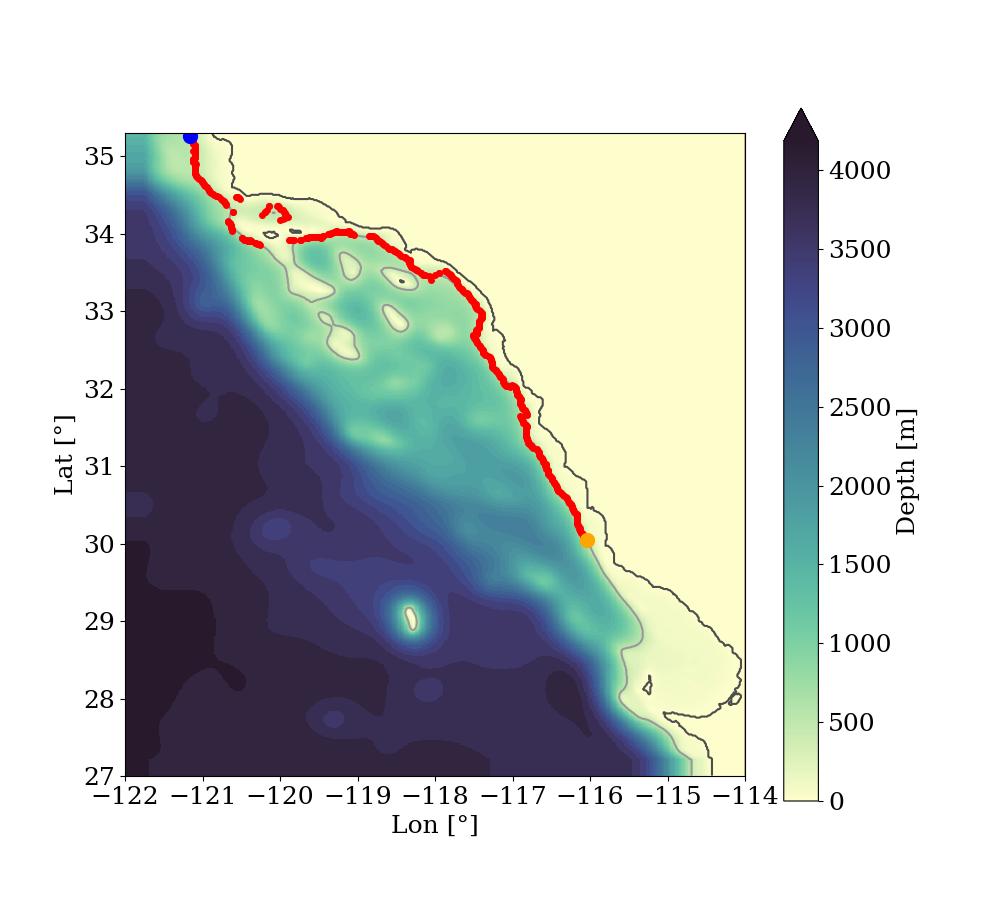
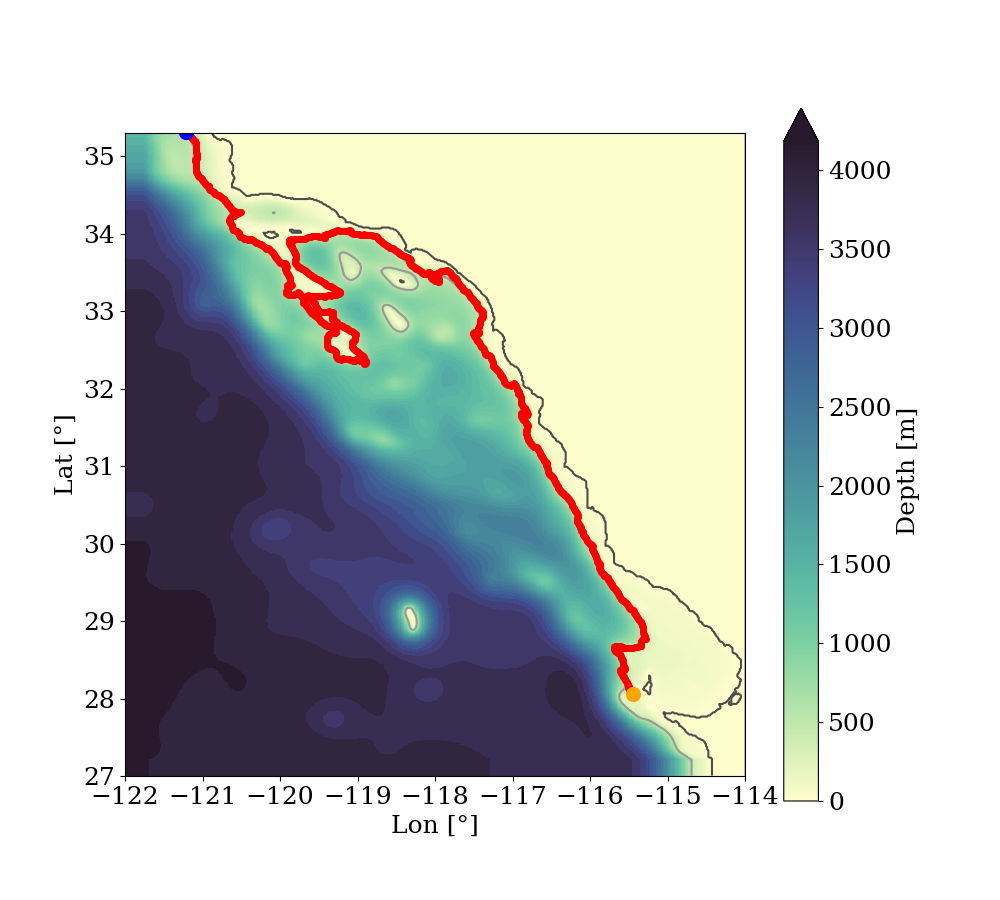
new stuff

diff --git a/Scripts/ExtractACval.py b/Scripts/ExtractACval.py
@@ -4,7 +4,7 @@ import SVBfunc
 import xarray as xr
 # In[141]:
 
-dep=55
+dep=51
 coast='original'
 
 if coast== 'original':
@@ -13,7 +13,7 @@ if coast== 'original':
 elif coast == 'smooth':
   tstart=1
   ts=9
-  
+
 for var in ['phiHyd', 'rhoAnoma', 'dynVars','eta']:
 	dirw = '/home/athelandersson/NETCDFs/' +  str(coast) + '/'
 	dirn = '/home/athelandersson/NETCDFs/' +  str(coast) + '_NO/'
@@ -37,16 +37,18 @@ for var in ['phiHyd', 'rhoAnoma', 'dynVars','eta']:
 		for VAR in ['UVEL','VVEL','WVEL','SALT','THETA']:
 			pathn= '/home/athelandersson/NETCDFs/' +  str(coast) + '_NO/' + str(VAR)+ 'ACnoSVBPREFILT.nc'
 			pathw= '/home/athelandersson/NETCDFs/' +  str(coast) + '/' + str(VAR)+'ACwithSVBPREFILT.nc'
+			coordPathW='/home/athelandersson/CTW-analysis/Files/' + str(coast) + '/PAC/pac505mSVB.nc'
+			coordPathN='/home/athelandersson/CTW-analysis/Files/' + str(coast) + '/PAC/pac505mNoSVB.nc'
 			for l in np.arange(0,ts,1):
 				
-				exec (f'W=dsw[l].{VAR}[:,55,:,:].values')
-				exec (f'N=dsn[l].{VAR}[:,55,:,:].values')
+				exec (f'W=dsw[l].{VAR}[:,51,:,:].values')
+				exec (f'N=dsn[l].{VAR}[:,51,:,:].values')
 				
 				TIMEdyn=dsw[l].time.astype(int).values*1e-9
 				ntdyn = np.size(TIMEdyn)
 				
-				val, lon_fix,lat_fix,dist_cummul=SVBfunc.varsalongcoasts(hFacCusew,LAT,LON,Zdyn,W,ntdyn,dep,l,VAR)
-				valn,lon_fixn,lat_fixn,dist_cummuln=SVBfunc.varsalongcoasts(hFacCusen,LAT,LON,Zdyn,N,ntdyn,dep,l,VAR)
+				val, lon_fix,lat_fix,dist_cummul=SVBfunc.varsalongcoasts(LAT,LON,Zdyn,W,ntdyn,dep,l,VAR,coordPathW)
+				valn,lon_fixn,lat_fixn,dist_cummuln=SVBfunc.varsalongcoasts(LAT,LON,Zdyn,N,ntdyn,dep,l,VAR,coordPathN)
 				    
 				if l == 0: valOUTw = val;valOUTn = valn;time = TIMEdyn
 				else: valOUTw=np.concatenate((valOUTw,val),axis=0); valOUTn=np.concatenate((valOUTn,valn),axis=0); time=np.concatenate((time,TIMEdyn),axis=0)
@@ -78,17 +80,19 @@ for var in ['phiHyd', 'rhoAnoma', 'dynVars','eta']:
 	elif var == 'eta': 
 		VAR='ETAN'
 		pathn= '/home/athelandersson/NETCDFs/' +  str(coast) + '_NO/' + str(VAR)+ 'ACnoSVBPREFILT.nc'
-		pathw= '/home/athelandersson/NETCDFs/' +  str(coast) + '/' + str(VAR)+'ACwithSVBPREFILT.nc'	
+		pathw= '/home/athelandersson/NETCDFs/' +  str(coast) + '/' + str(VAR)+'ACwithSVBPREFILT.nc'
+		coordPathW='/home/athelandersson/CTW-analysis/Files/' + str(coast) + '/PAC/pac20mSVB.nc'
+		coordPathN='/home/athelandersson/CTW-analysis/Files/' + str(coast) + '/PAC/pac20mNoSVB.nc'
 		for l in np.arange(0,ts,1):
 			
-			exec (f'W=dsw[l].{VAR}[:,:,:]')
-			exec (f'N=dsn[l].{VAR}[:,:,:]')
+			exec (f'W=dsw[l].{VAR}[:,:,:].values')
+			exec (f'N=dsn[l].{VAR}[:,:,:].values')
 			
 			TIMEdyn=dsw[l].time.astype(int).values*1e-9
 			nt = np.size(TIMEdyn)
 			
-			val, lon_fix,lat_fix,dist_cummul=SVBfunc.loadingcoastpts(hFacCusew,Zdyn,LAT,LON,W,nt,l,VAR)
-			valn,lon_fixn,lat_fixn,dist_cummuln=SVBfunc.loadingcoastpts(hFacCusen,Zdyn,LAT,LON,N,nt,l,VAR)
+			val, lon_fix,lat_fix,dist_cummul=SVBfunc.varsalongcoasts(LAT,LON,Zdyn,W,nt,dep,l,VAR,coordPathW)
+			valn,lon_fixn,lat_fixn,dist_cummuln=SVBfunc.varsalongcoasts(LAT,LON,Zdyn,N,nt,dep,l,VAR,coordPathN)
 			    
 			if l == 0: valOUTw = val;valOUTn = valn;time = TIMEdyn
 			else: valOUTw=np.concatenate((valOUTw,val),axis=0); valOUTn=np.concatenate((valOUTn,valn),axis=0); time=np.concatenate((time,TIMEdyn),axis=0)
@@ -125,16 +129,18 @@ for var in ['phiHyd', 'rhoAnoma', 'dynVars','eta']:
 			
 		pathn= '/home/athelandersson/NETCDFs/' +  str(coast) + '_NO/' + str(VAR)+ 'ACnoSVBPREFILT.nc'
 		pathw= '/home/athelandersson/NETCDFs/' +  str(coast) + '/' + str(VAR)+'ACwithSVBPREFILT.nc'
+		coordPathW='/home/athelandersson/CTW-analysis/Files/' + str(coast) + '/PAC/pac505mSVB.nc'
+		coordPathN='/home/athelandersson/CTW-analysis/Files/' + str(coast) + '/PAC/pac505mNoSVB.nc'
 		for l in np.arange(0,ts,1):
 			
-			exec (f'W=dsw[l].{VAR}[:,55,:,:].values')
-			exec (f'N=dsn[l].{VAR}[:,55,:,:].values')
+			exec (f'W=dsw[l].{VAR}[:,51,:,:].values')
+			exec (f'N=dsn[l].{VAR}[:,51,:,:].values')
 			
 			TIMEdyn=dsw[l].time.astype(int).values*1e-9
 			ntdyn = np.size(TIMEdyn)
 			
-			val, lon_fix,lat_fix,dist_cummul=SVBfunc.varsalongcoasts(hFacCusew,LAT,LON,Zdyn,W,ntdyn,dep,l,VAR)
-			valn,lon_fixn,lat_fixn,dist_cummuln=SVBfunc.varsalongcoasts(hFacCusen,LAT,LON,Zdyn,N,ntdyn,dep,l,VAR)
+			val, lon_fix,lat_fix,dist_cummul=SVBfunc.varsalongcoasts(LAT,LON,Zdyn,W,ntdyn,dep,l,VAR,coordPathW)
+			valn,lon_fixn,lat_fixn,dist_cummuln=SVBfunc.varsalongcoasts(LAT,LON,Zdyn,N,ntdyn,dep,l,VAR,coordPathN)
 			    
 			if l == 0: valOUTw = val;valOUTn = valn;time = TIMEdyn
 			else: valOUTw=np.concatenate((valOUTw,val),axis=0); valOUTn=np.concatenate((valOUTn,valn),axis=0); time=np.concatenate((time,TIMEdyn),axis=0)

diff --git a/Scripts/SVBfunc.py b/Scripts/SVBfunc.py
@@ -7,6 +7,7 @@ import pylab as pl
 import scipy.signal as sig
 import scipy.io as sio
 import scipy.interpolate as sciint
+from scipy.interpolate import RegularGridInterpolator
 from xmitgcm import open_mdsdataset
 from mpl_toolkits.axes_grid1 import make_axes_locatable
 from mpl_toolkits.axes_grid1.inset_locator import inset_axes
@@ -240,41 +241,20 @@ def loadingcoastpts(hFacCuse,Z,LAT,LON,prevalue,nt,t,var):
 
 
 #For dynvars and pressure, just don't forget to change the depth
-def varsalongcoasts(hFacCuse,LAT,LON,Z,valvar,nt,dep,plot,var):
-
-    
-    lat_fix, lon_fix=findlonlat(hFacCuse,dep,1)
-    
-    dist_array = np.zeros(len(lon_fix[5:-5]))
-    p=0
-    for ii,jj in zip(lon_fix[5:-5],lat_fix[5:-5]):
-        lat1 = LAT[jj-2]
-        lon1 = LON[ii-2]
-        lat2 = LAT[jj-1]
-        lon2 = LON[ii-1]
-        p=p+1
-        dist_array[p-1]=  haversine(lat1, lon1, lat2, lon2)
-
-    dist_cummul = np.cumsum(dist_array)
-    rangedep=np.arange(0,71,10)
-    val = np.zeros((nt,len(lon_fix[5:-5]))) 
-    dd=0
-
-    for h in range(nt):
-        p=0
-        for n in np.arange(5,len(lon_fix)-5,1):
-            p=p+1
-            
-            value=np.mean(valvar[h-1,lat_fix[n-5:n+5]-1,lon_fix[n-5:n+5]-1])
-            val[h-1,p-1] = value
-
-    lon_fix=lon_fix[5:-5]
-    lat_fix=lat_fix[5:-5]
+def varsalongcoasts(LAT,LON,Z,valvar,nt,dep,plot,var,path):
+    ds= xr.open_dataset(path)
+    x=ds.x.values
+    y=ds.y.values
+    dist_cummul=ds.dist.values
+    val=np.zeros((len(valvar[:,0,0]),len(dist_cummul)))
+    for i in range(len(valvar[:,0,0])):
+    	interpval = RegularGridInterpolator((LAT.values,LON.values), valvar[i])
+    	val[i,:]=interpval((y,x))
    
     if plot==7:
-    	plotpointsAC(LON,LAT,lon_fix,lat_fix,var)
+    	plotpointsAC(LON,LAT,x,y,var)
     
-    return val[:,val[0,:]!=0],lon_fix[val[0,:]!=0],lat_fix[val[0,:]!=0],dist_cummul[val[0,:]!=0]
+    return val,x,y,dist_cummul
     
 # When you want a diagonal across the area    
 def varsalldepths(hFacCuse,LAT,LON,Z,valvar,name,name2,name3,nt,t,FILENAME):
@@ -465,19 +445,18 @@ def FiltDetrend(VAL,filt,detrend,fs,fs2):
 		
 	return(VALdif,VALfilt,VALfiltAll,inds)
        	
-def SavingFilteredValues(valw,valn,dsw, FILENAME,filt,detrend,fs,fs2):
+def SavingFilteredValues(val,ds, FILENAME,filt,detrend,fs,fs2):
 	
-	dist = dsw.x.values
-	TIME=dsw.time.values #TIME = dsw.time.astype(int).values*1e-9
-	VAL = valw.values-valn.values
-	lon_ac=dsw.lonAC.values
-	lat_ac=dsw.latAC.values
+	dist = ds.x.values
+	TIME=ds.time.values #TIME = dsw.time.astype(int).values*1e-9
+	VAL = val.values
+	lon_ac=ds.lonAC.values
+	lat_ac=ds.latAC.values
 	
 	valdet,valfilt,valfiltall,inds = FiltDetrend(VAL,filt,detrend,fs,fs2)
 
-	ds = xr.Dataset({'Valdet': (("time","dist"),valdet),
-                 	'Valfilt':(("time","dist"),valfilt),
-                 	'ValfiltAll':(("time2","dist"),valfiltall),
+	dsout = xr.Dataset({'Valdet': (("time","dist"),valdet),
+                 	'Valfilt':(("time","dist"),valfiltall),
                  	'Valorig':(("time","dist"),VAL),
                  	'lonAC':(("dist"),lon_ac),
                  	'latAC':(("dist"),lat_ac)
@@ -485,11 +464,10 @@ def SavingFilteredValues(valw,valn,dsw, FILENAME,filt,detrend,fs,fs2):
                  	   },
                 	coords ={
                     	"time": TIME,
-                    	"time2": TIME[inds],
                    	 "dist":dist
                 	},
                 	)
-	ds.to_netcdf(FILENAME)
+	dsout.to_netcdf(FILENAME)
 
 def FFRQ(Wdif,Wfilt,timemin,dist):
 
@@ -1376,7 +1354,7 @@ def plotpointsAC(LON,LAT,lon_inds,lat_inds,var):
 	dirw = '/home/athelandersson/NETCDFs/smooth/'
 	dirn = '/home/athelandersson/NETCDFs/smooth_NO/'
 
-	dsw,dsn=loadNetCDFs(dirw,dirn,'rhoAnoma')
+	dsw,dsn=loadNetCDFs(dirw,dirn,'rhoAnoma',2)
 	depth = dsw[0].Depth
 	
 	fig, ax = plt.subplots(1,1,figsize=(10,9))
@@ -1386,15 +1364,12 @@ def plotpointsAC(LON,LAT,lon_inds,lat_inds,var):
 	cn = ax.contour(LON,LAT,depth, colors=['0.3','0.6'], 
                 	levels=[0,500])
 
-	for ii,jj in zip(lon_inds,lat_inds):
-
-    		ax.plot(LON[ii-1],LAT[jj-1],'o', 
-            		markersize=4, color='r')
+	ax.plot(lon_inds,lat_inds,'o',markersize=4, color='r')
 
 	# To show it begins and ends where it should
-	ax.plot(LON[lon_inds[0]],LAT[lat_inds[0]],'o', 
+	ax.plot(lon_inds[0],lat_inds[0],'o', 
            	markersize=10, color='orange') 
-	ax.plot(LON[lon_inds[-1]],LAT[lat_inds[-1]],'o', 
+	ax.plot(lon_inds[-1],lat_inds[-1],'o', 
            	markersize=10, color='blue') 
 
 

diff --git a/Scripts/FilterAlongCoast.py b/Scripts/FilterAlongCoast.py
@@ -16,8 +16,10 @@ for varname in ['PHIHYD', 'RHOAnoma', 'SALT','THETA','UVEL','VVEL','WVEL','ETAN'
   fs=1/1200
   fs2=0
   
-  FILENAME='/home/athelandersson/NETCDFs/' + str(coast) + '/' + str(varname)+ 'AC.nc'
+  FILENAMEw='/home/athelandersson/NETCDFs/' + str(coast) + '/' + str(varname)+ 'AC_SVB.nc'
+  FILENAMEn='/home/athelandersson/NETCDFs/' + str(coast) + '_NO/' + str(varname)+ 'AC_NoSVB.nc'
 
-  SVBfunc.SavingFilteredValues(valw,valn,dswALL,FILENAME,1,1,fs,fs2)
+  SVBfunc.SavingFilteredValues(valn,dsnALL,FILENAMEn,1,1,fs,fs2)
+  SVBfunc.SavingFilteredValues(valw,dswALL,FILENAMEw,1,1,fs,fs2)
 
 
